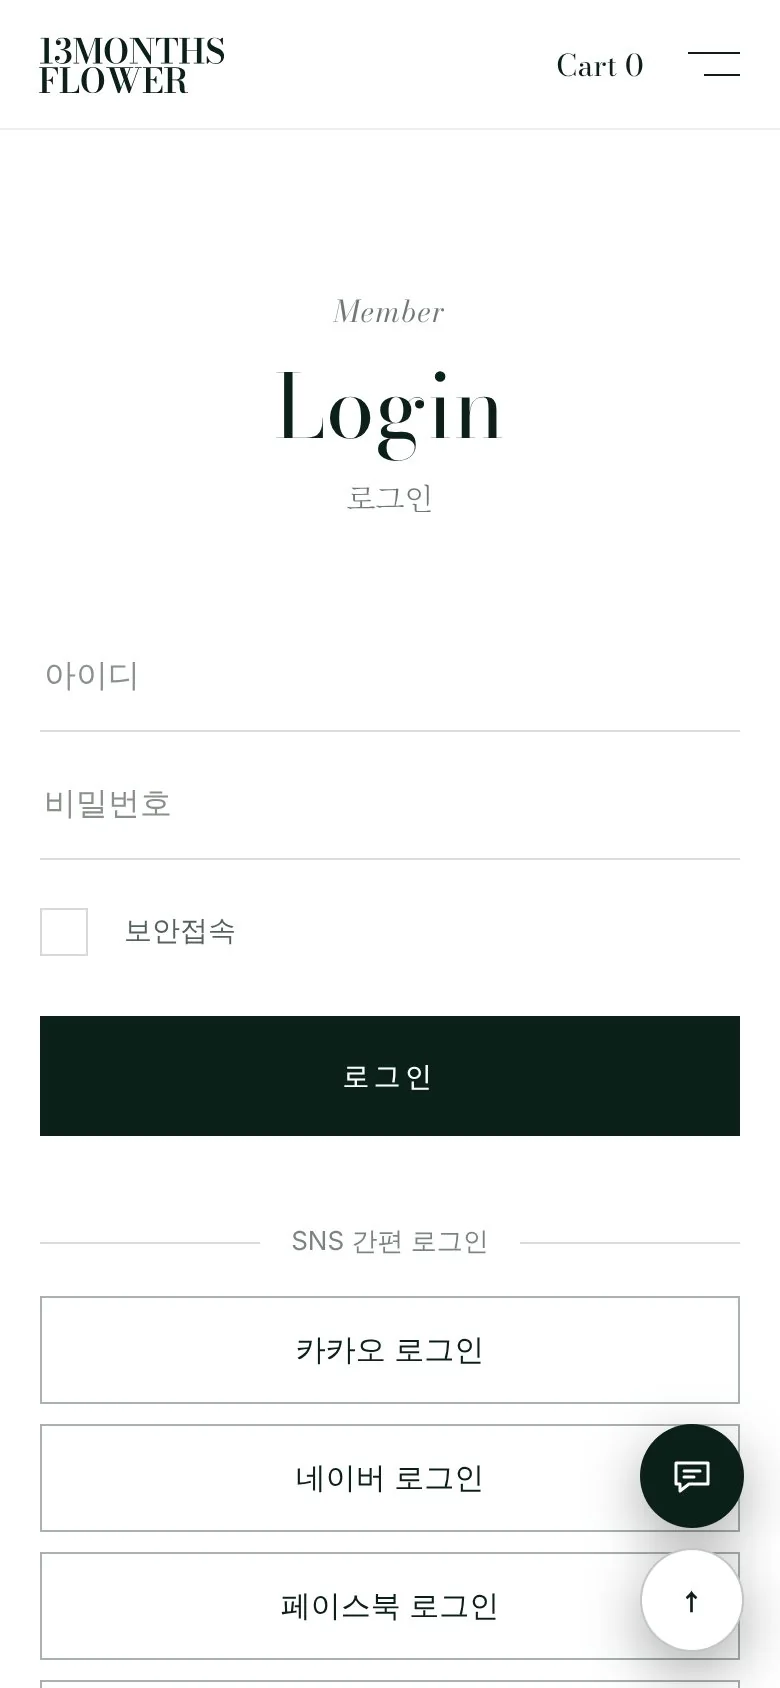
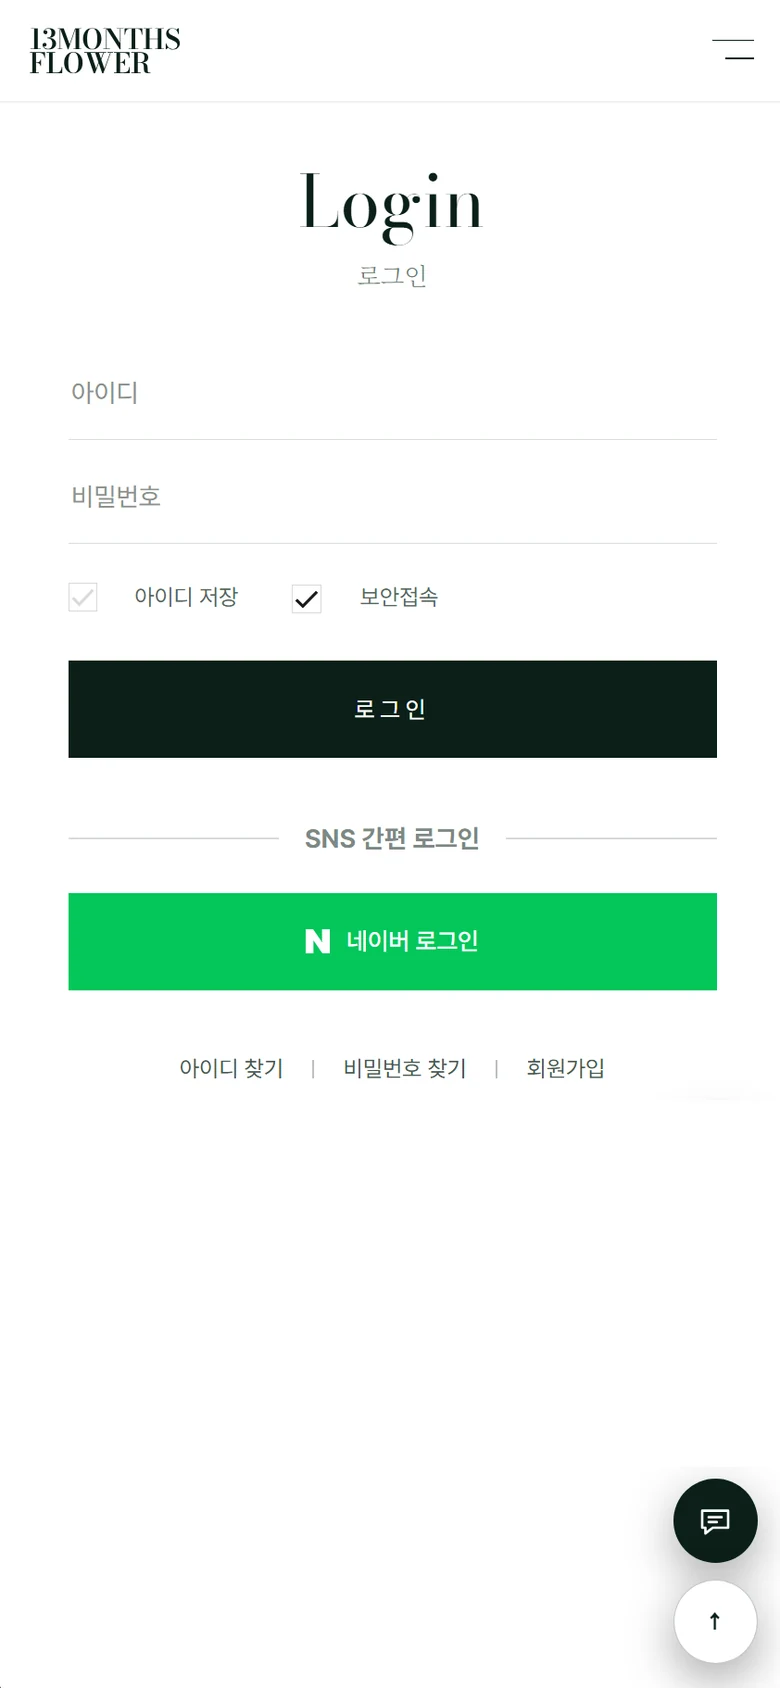
13 MONTHS: 로그인 캡처 교체 + SNS 간편 로그인 강조 (#77)
* 13 MONTHS: 모바일 회원 화면 캡션에 'SNS 간편 로그인 연동' 강조

Claude-Session: https://claude.ai/code/session_01UX5jojjobeygWMtJ45e7tF

* 13 MONTHS: 로그인 캡처 현재 디자인으로 교체, SNS 간편 로그인 강조를 본문 흰색 굵게로 변경

Claude-Session: https://claude.ai/code/session_01UX5jojjobeygWMtJ45e7tF

---------

diff --git a/work-13months.html b/work-13months.html
@@ -298,13 +298,13 @@
               <img src="assets/13months/v2/m-home.webp" alt="메인 모바일" loading="lazy" width="780" height="1688" />
             </figure>
             <figure class="shot is-phone">
-              <img src="assets/13months/v2/m-login.webp" alt="로그인 모바일" loading="lazy" width="780" height="1688" />
+              <img src="assets/13months/v2/m-login.webp" alt="로그인 모바일 — 네이버 간편 로그인 버튼" loading="lazy" width="780" height="1688" />
             </figure>
           </div>
           <div class="shot-cap">
             <span class="shot-cap-label">MOBILE · MAIN / LOGIN</span>
             <h3>모바일 · 회원 화면</h3>
-            <p>카페24 기본 로그인 화면을 사이트 스타일에 맞추고 SNS 간편 로그인을 연동했습니다. 390px 폭에서 가로 스크롤 없이 입력칸과 버튼 폭이 같도록 맞췄습니다.</p>
+            <p>카페24 기본 로그인 화면을 사이트 스타일에 맞추고 <strong class="shot-cap-em">SNS 간편 로그인(네이버)을 연동</strong>했습니다. 390px 폭에서 가로 스크롤 없이 입력칸과 버튼 폭이 같도록 맞췄습니다.</p>
             <span class="shot-cap-ref">→ PROBLEM 01</span>
           </div>
         </div>

diff --git a/case.css b/case.css
@@ -621,5 +621,6 @@
 .story-body .story-tools{font-size:13px}
 .shot-cap h3{font-size:clamp(19px,1.6vw,22px)}
 .shot-cap p{font-size:16.5px}
+.shot-cap-em{font-weight:700;color:var(--text-000)}
 .flow-note{font-size:14px;color:var(--text-100)}
 .flow-lead{font-size:17px}
